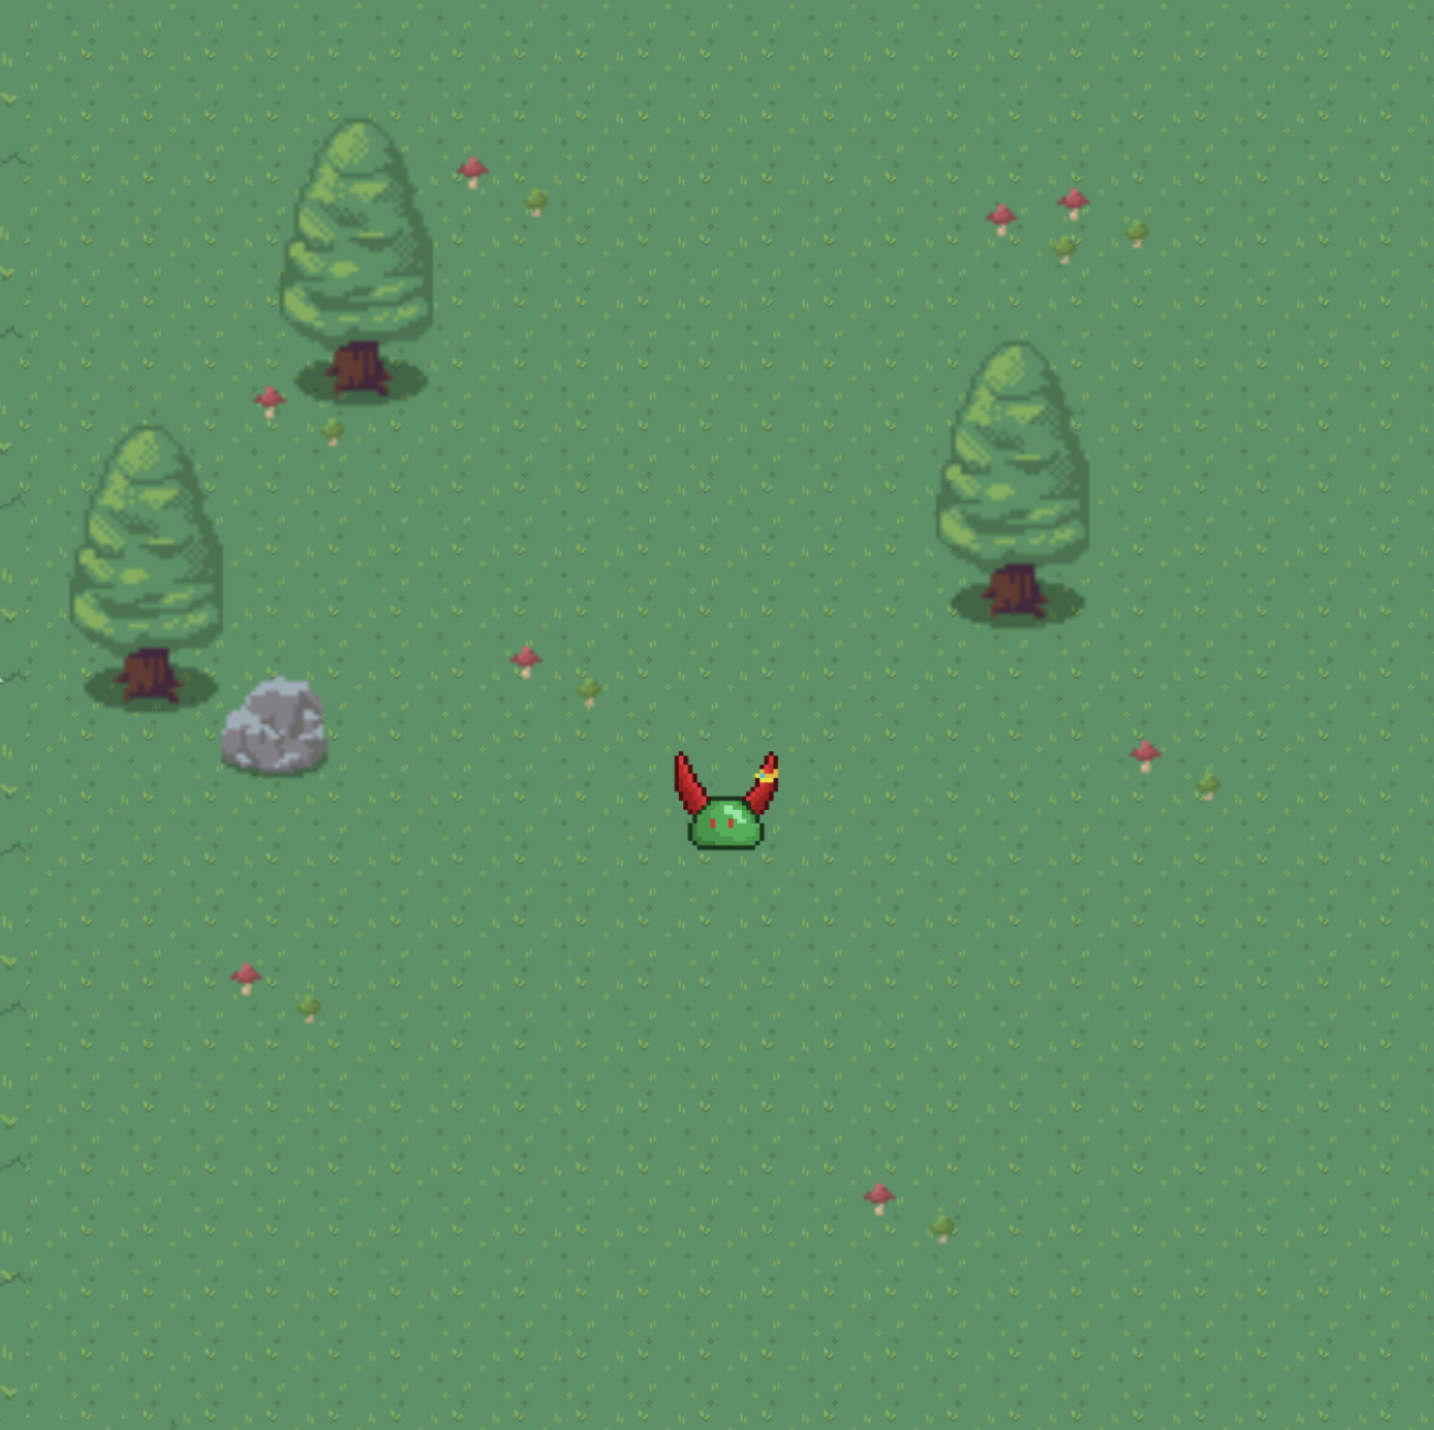
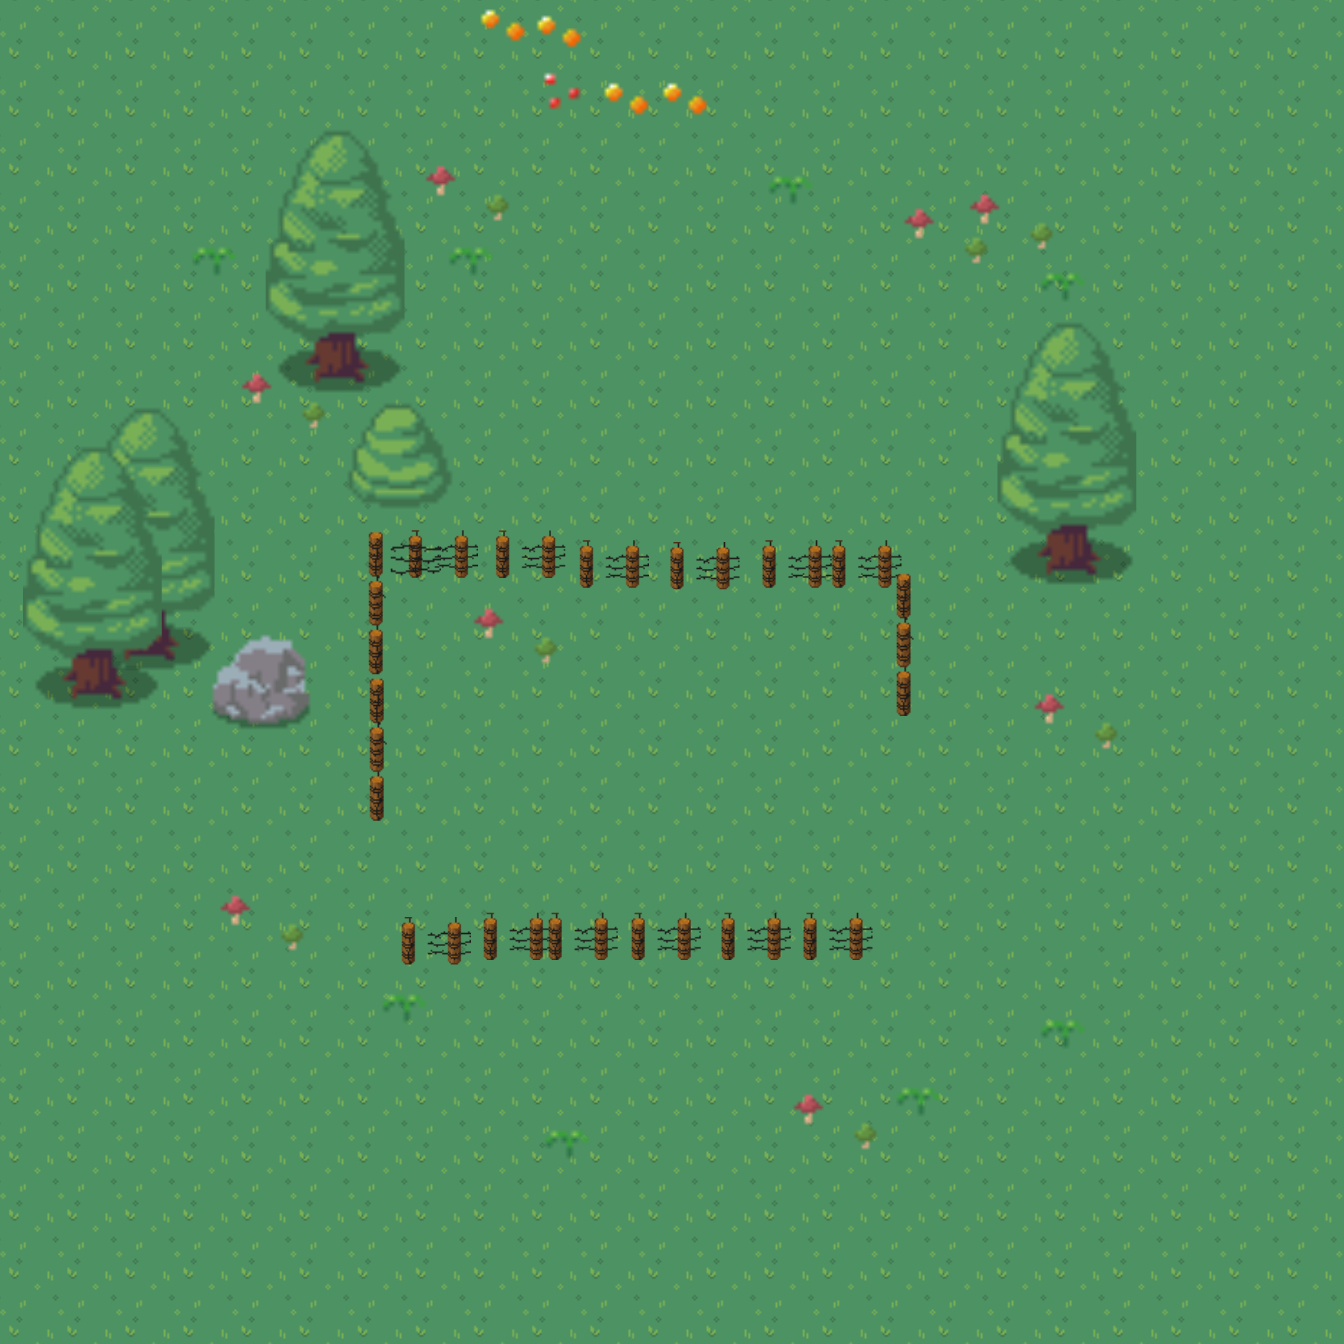
design: 메인 페이지 배경화면 수정

diff --git a/src/components/main/GameStatus.jsx b/src/components/main/GameStatus.jsx
@@ -1,24 +1,57 @@
 import styled from 'styled-components';
 import useUserStore from '../../store/useUserStore';
-
-// TODO: 이 경로에 실제 코인 이미지 파일을 넣어주세요. 예: /src/assets/coin.png
-const coinIconUrl = '/src/assets/coin.png';
+import sunIconUrl from '../../assets/sun.png';
+import coinIconUrl from '../../assets/coin.png';
+import gemIconUrl from '../../assets/gem.png';
 
 const GameStatusContainer = styled.div`
   display: flex;
-  flex-direction: column;
-  justify-content: space-around;
+  flex-direction: row;
+  justify-content: space-between;
   align-items: center;
   background-color: #f3e9d3; /* 양피지 느낌의 배경색 */
   border: 7px solid #4a2e2a; /* 어두운 나무 색상의 테두리 */
   border-radius: 12px;
   padding: 10px 20px;
-  width: 300px;
-  height: 120px;
+  width: 400px;
+  height: 170px;
   box-sizing: border-box;
   box-shadow: inset 0 0 0 4px #8d6e63; /* 안쪽 테두리 효과 */
   font-family: monospace;
   color: #5d4037;
+`;
+
+const WeatherContainer = styled.div`
+  display: flex;
+  flex-direction: column;
+  align-items: center;
+  gap: 8px;
+  flex: 0 0 auto;
+`;
+
+const StatusRight = styled.div`
+  display: flex;
+  flex-direction: column;
+  align-items: flex-end;
+  justify-content: center;
+  height: 100%;
+  gap: 12px;
+`;
+
+const SunIcon = styled.div`
+  width: 55px;
+  height: 55px;
+  background-image: url(${sunIconUrl});
+  background-size: contain;
+  background-repeat: no-repeat;
+  background-position: center;
+  border-radius: 50%;
+  box-shadow: 0 0 10px rgba(255, 215, 0, 0.5);
+`;
+
+const WeatherText = styled.span`
+  font-size: 1.1rem;
+  font-weight: bold;
 `;
 
 const DateText = styled.p`
@@ -27,38 +60,50 @@ const DateText = styled.p`
   margin: 0;
 `;
 
-const MoneyContainer = styled.div`
+const AssetsRow = styled.div`
   display: flex;
-  align-items: center;
-  gap: 15px;
+  flex-direction: column;
+  align-items: flex-end;
+  gap: 10px;
 `;
 
-const CoinIcon = styled.div`
-  width: 40px;
-  height: 40px;
-  background-image: url(${coinIconUrl});
-  background-size: contain;
-  background-repeat: no-repeat;
-  background-position: center;
+const AssetIcon = styled.img`
+  width: 38px;
+  height: 38px;
+  object-fit: contain;
 `;
 
-const MoneyText = styled.p`
-  font-size: 1.4rem;
+const AssetText = styled.span`
+  font-size: 1.2rem;
   font-weight: bold;
-  margin: 0;
+  margin-left: 6px;
 `;
 
 const GameStatus = () => {
   const { cash } = useUserStore((state) => state.assets);
+  // 더미 값
+  const gem = 123;
   const { formatted } = useUserStore((state) => state.gameDate);
 
   return (
     <GameStatusContainer>
-      <DateText>{formatted}</DateText>
-      <MoneyContainer>
-        <CoinIcon />
-        <MoneyText>{cash.toLocaleString()} 원</MoneyText>
-      </MoneyContainer>
+      <WeatherContainer>
+        <SunIcon />
+        <WeatherText>맑음</WeatherText>
+      </WeatherContainer>
+      <StatusRight>
+        <DateText>{formatted}</DateText>
+        <AssetsRow>
+          <div style={{display:'flex',alignItems:'center'}}>
+            <AssetIcon src={coinIconUrl} alt="코인" />
+            <AssetText>{cash.toLocaleString()} 원</AssetText>
+          </div>
+          <div style={{display:'flex',alignItems:'center'}}>
+            <AssetIcon src={gemIconUrl} alt="보석" />
+            <AssetText>{gem}</AssetText>
+          </div>
+        </AssetsRow>
+      </StatusRight>
     </GameStatusContainer>
   );
 };

diff --git a/src/components/main/MainPage.jsx b/src/components/main/MainPage.jsx
@@ -12,7 +12,7 @@ import MyPageModal from '../myPage/MyPageModal';
 import MyStocksModal from '../myStocks/MyStocksModal';
 import MyFriendsModal from '../friends/MyFriendsModal';
 import ShopModal from '../shop/ShopModal';
-import mainBackground from '../../assets/main-background4.jpeg';
+import mainBackground from '../../assets/main-background3.png';
 import PlayerCharacter from './PlayerCharacter';
 
 const MainContainer = styled.div`
@@ -33,7 +33,7 @@ const MainContainer = styled.div`
 const TopSection = styled.header`
   display: flex;
   justify-content: space-between;
-  height: 150px;
+  height: 170px;
 `;
 
 const MiddleSection = styled.main`
@@ -115,13 +115,13 @@ const MainPage = ({ isMusicPlaying, playMusic, pauseMusic }) => {
         <NavContainer>
           {/* TODO: Add iconUrl prop, e.g., iconUrl="/src/assets/icons/trade.png" */}
           <NavItem label="매매" onClick={handleOpenTradeModal} />
-          <NavItem label="내 주식" onClick={handleOpenMyStocksModal} />
-          <NavItem label="상점" onClick={handleOpenShopModal} />
+          <NavItem iconUrl="/src/assets/dollar.png" label="내 주식" onClick={handleOpenMyStocksModal} />
+          <NavItem iconUrl="/src/assets/shop.png" label="상점" onClick={handleOpenShopModal} />
           <NavItem label="내 친구" onClick={handleOpenMyFriendsModal} />
         </NavContainer>
         <Chat />
         <NavContainer>
-          <NavItem label="설정" onClick={handleOpenSettingsModal} />
+          <NavItem iconUrl="/src/assets/setting.png" label="설정" onClick={handleOpenSettingsModal} />
           <NavItem label="나가기" onClick={handleOpenExitModal} />
         </NavContainer>
       </BottomSection>

diff --git a/src/components/main/Profile.jsx b/src/components/main/Profile.jsx
@@ -12,15 +12,15 @@ const ProfileContainer = styled.div`
   border: 7px solid #4a2e2a; /* 어두운 나무 색상의 테두리 */
   border-radius: 12px;
   padding: 8px;
-  width: 300px;
-  height: 120px;
+  width: 400px;
+  height: 170px;
   box-sizing: border-box;
   box-shadow: inset 0 0 0 4px #8d6e63; /* 안쪽 테두리 효과 */
 `;
 
 const AvatarContainer = styled.div`
-  width: 85px;
-  height: 85px;
+  width: 120px;
+  height: 120px;
   border-radius: 6px;
   border: 3px solid #c9b79c;
   background-color: white;
@@ -39,7 +39,7 @@ const AvatarImage = styled.img`
 const ProfileName = styled.p`
   /* '둥근모꼴' 같은 픽셀 폰트 사용을 권장합니다. */
   font-family: monospace;
-  font-size: 1.5rem;
+  font-size: 2rem;
   font-weight: bold;
   color: #5d4037;
   margin: 0;

diff --git a/src/components/main/PlayerCharacter.jsx b/src/components/main/PlayerCharacter.jsx
@@ -93,7 +93,7 @@ const IndependentTestCharacter = () => {
       left={testPosition.left}
       direction={testDirection}
     >
-      <img src="/characters/1001.gif" alt="Test Character" onError={(e) => console.error('Failed to load test character image:', e)} />
+      <img src="/characters/501.gif" alt="Test Character" onError={(e) => console.error('Failed to load test character image:', e)} />
     </TestCharacterContainer>
   );
 };

diff --git a/src/store/useUserStore.js b/src/store/useUserStore.js
@@ -75,7 +75,7 @@ const useUserStore = create(
 
       // Assets
       assets: {
-        cash: 30000000,
+        cash: 1000000,
         stocks: [
           {
             id: 1,
